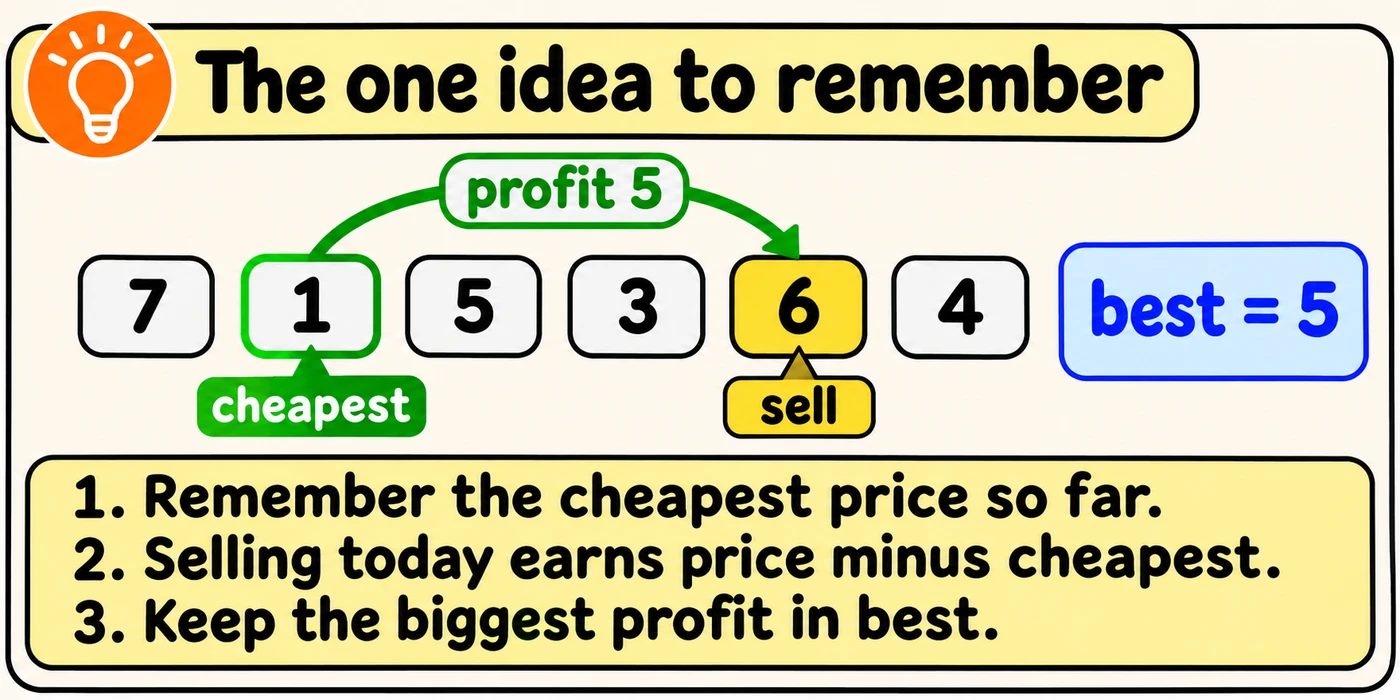
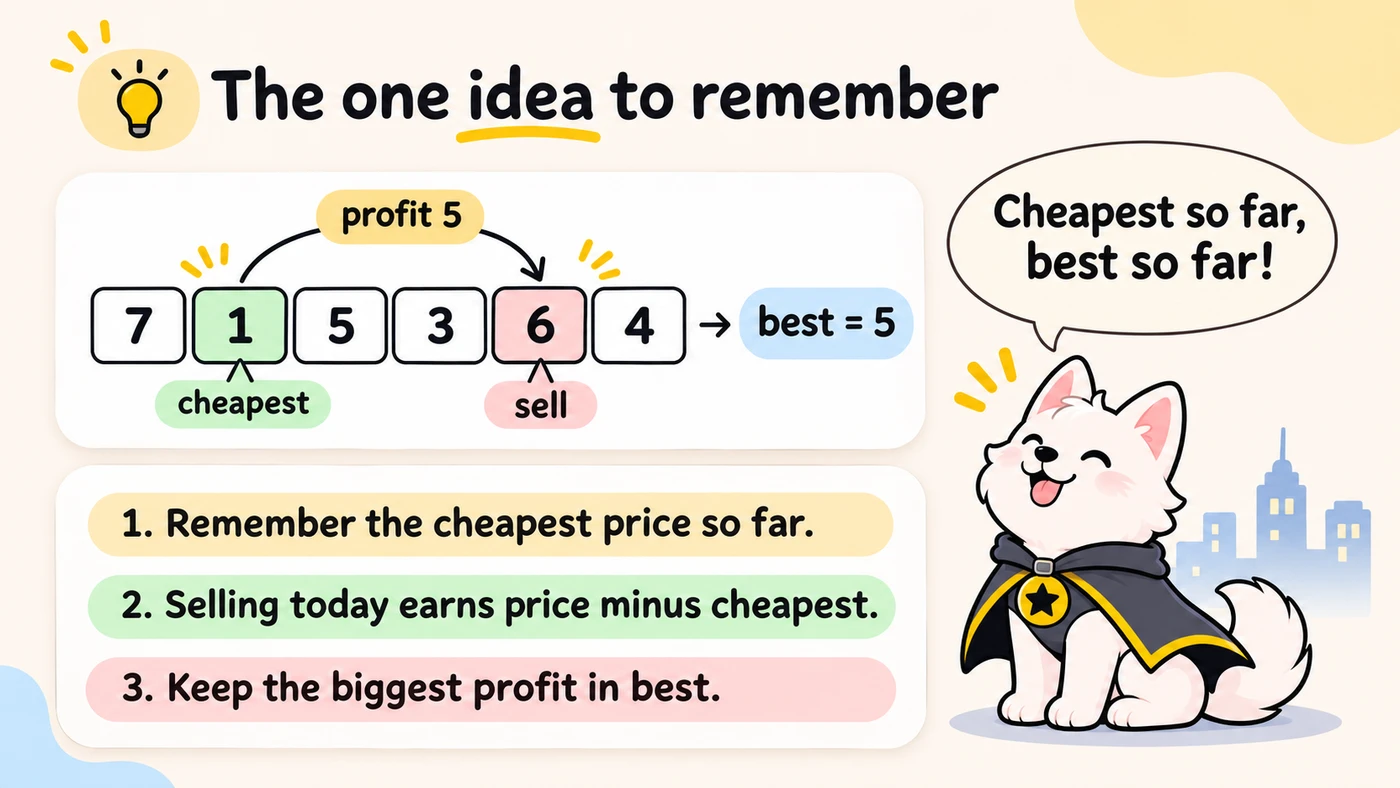
Sliding Window problem 1: pictures in the new pastel style with the superhero pup
Claude-Session: https://claude.ai/code/session_01C929SSvb38XrBSVCbuNvTc

diff --git a/sliding_window.html b/sliding_window.html
@@ -69,8 +69,8 @@ td{padding:10px 12px;border:1px solid var(--border)}
 .scene-img{width:100%;border-radius:10px;border:1px solid var(--border);margin-bottom:16px;cursor:pointer;transition:transform .2s}
 .scene-img:hover{transform:scale(1.02)}
 </style>
-<link rel="stylesheet" href="legacy-colors.css?v=20261119a">
-<link rel="stylesheet" href="site.css?v=20261119a">
+<link rel="stylesheet" href="legacy-colors.css?v=20261119b">
+<link rel="stylesheet" href="site.css?v=20261119b">
 </head>
 <body>
 <header class="ms-topbar"><div class="ms-inner"><a class="ms-home" href="index.html" aria-label="Home"><svg viewBox="0 0 24 24" fill="none" stroke="currentColor" stroke-width="2" stroke-linecap="round" stroke-linejoin="round"><path d="M3 10.5 12 3l9 7.5"/><path d="M5 9.5V21h14V9.5"/><path d="M10 21v-6h4v6"/></svg><span>Memory Systems</span></a><nav class="ms-links"><a href="shankar_dada_trees.html">Trees</a><a href="graphs.html">Graphs</a><a href="dp_workshop.html">DP</a><a href="arrays.html">Arrays</a><a href="two_pointers.html">Two Pointers</a><a href="sliding_window.html" class="on">Sliding Window</a><a href="stack.html">Stack</a><a href="binary_search.html">Binary Search</a><a href="linked_list.html">Linked List</a><a href="heap.html">Heap</a><a href="tries.html">Tries</a></nav></div></header>
@@ -91,14 +91,14 @@ td{padding:10px 12px;border:1px solid var(--border)}
 <section class="lsn-part lsn-easy">
 <span class="lsn-tag">Part 1 of 4</span>
 <h4>What are we trying to find?</h4>
-<img class="lsn-pic" src="sliding_window/images/panels/p121_buy_sell_stock_question.webp" alt="The prices are 7, 1, 5, 3, 6 and 4. We buy at 1 on day 1 and sell at 6 on day 4. The profit is 6 minus 1, which is 5." width="1400" height="700" loading="lazy">
+<img class="lsn-pic" src="sliding_window/images/panels/p121_buy_sell_stock_question.webp" alt="The prices are 7, 1, 5, 3, 6 and 4. We buy at 1 on day 1 and sell at 6 on day 4. The profit is 6 minus 1, which is 5." width="1400" height="788" loading="lazy">
 <p>We must buy before we sell. If no later selling price gives us a profit, we return 0.</p>
 </section>
 
 <section class="lsn-part">
 <span class="lsn-tag">Part 2 of 4</span>
 <h4>What do we track?</h4>
-<img class="lsn-pic" src="sliding_window/images/panels/p121_buy_sell_stock_scan.webp" alt="Each day, we track the cheapest price and the best profit. On day 4, the price is 6 and the cheapest price is 1. The profit is 5, so it becomes the new best." width="1400" height="715" loading="lazy">
+<img class="lsn-pic" src="sliding_window/images/panels/p121_buy_sell_stock_scan.webp" alt="Each day, we track the cheapest price and the best profit. On day 4, the price is 6 and the cheapest price is 1. The profit is 5, so it becomes the new best." width="1400" height="788" loading="lazy">
 <p>We walk through the prices once. We create the variable <code>cheapest</code> to keep track of the lowest price seen so far. This is the best price we could have bought at before selling today. So today’s profit is <code>price - cheapest</code>.</p>
 
 </section>
@@ -122,7 +122,7 @@ td{padding:10px 12px;border:1px solid var(--border)}
 
 <p>Tap Build it to see how I would write and explain the solution in an interview.</p>
 <div class="code-text" data-src="def maxProfit(prices):&#10;    cheapest = prices[0]&#10;    best = 0&#10;    for price in prices:&#10;        # a cheaper day to buy&#10;        if price &lt; cheapest:&#10;            cheapest = price&#10;        profit = price - cheapest&#10;        best = max(best, profit)&#10;    return best&#10;"><div class="code-label"><span class="dots"><i></i><i></i><i></i></span>Python code<button class="step-btn" type="button">Build it &#9654;</button></div><div class="code-body"><div class="code-inner"><div class="ln" data-l="1" style="padding-left:calc(10px + 2ch);text-indent:-2ch"><span class="k-kw">def</span> <span class="k-def">maxProfit</span>(<wbr>prices):</div><div class="ln" data-l="2" style="padding-left:calc(10px + 4ch);text-indent:-4ch">  cheapest = prices[<span class="k-num">0</span>]</div><div class="ln" data-l="3" style="padding-left:calc(10px + 4ch);text-indent:-4ch">  best = <span class="k-num">0</span></div><div class="ln" data-l="4" style="padding-left:calc(10px + 4ch);text-indent:-4ch">  <span class="k-kw">for</span> price <span class="k-kw">in</span> prices:</div><div class="ln" data-l="5" style="padding-left:calc(10px + 6ch);text-indent:-6ch">    <span class="k-com"># a cheaper day to buy</span></div><div class="ln" data-l="6" style="padding-left:calc(10px + 6ch);text-indent:-6ch">    <span class="k-kw">if</span> price &lt; cheapest:</div><div class="ln" data-l="7" style="padding-left:calc(10px + 8ch);text-indent:-8ch">      cheapest = price</div><div class="ln" data-l="8" style="padding-left:calc(10px + 6ch);text-indent:-6ch">    profit = price - cheapest</div><div class="ln" data-l="9" style="padding-left:calc(10px + 6ch);text-indent:-6ch">    best = <span class="k-bi">max</span>(<wbr>best, profit)</div><div class="ln" data-l="10" style="padding-left:calc(10px + 4ch);text-indent:-4ch">  <span class="k-kw">return</span> best</div></div></div><script type="application/json" class="steps">[{"lines": "1", "say": "I'll scan the prices once from left to right because I must buy before I sell. For each selling price, I only need the cheapest earlier price. Then I can find the profit and remember the biggest one."}, {"lines": "2", "say": "I'll create the variable `cheapest` to keep track of the lowest price seen so far. I need it to choose the best earlier day to buy. It starts at `prices[0]` because the first price is the only price seen at the start."}, {"lines": "3", "say": "I'll create the variable `best` to keep track of the biggest profit seen so far. It starts at 0 because I can choose not to trade, so the profit should never be less than 0."}, {"lines": "4", "say": "I'll go through every `price` from left to right. This order matters because the variable `cheapest` must come from the current day or an earlier day."}, {"lines": "5-7", "say": "If `price` is less than `cheapest`, I found a better price to buy at, so I'll set `cheapest` to `price`. For example, when the price is 1, the variable `cheapest` changes from 7 to 1."}, {"lines": "8", "say": "I'll create the variable `profit` to keep track of the profit from selling at the current `price`. I subtract `cheapest` because that is the lowest buying price seen before or on this day."}, {"lines": "9", "say": "I'll compare `profit` with `best`. If the current profit is bigger, the variable `best` takes that value. For example, when the price is 6 and `cheapest` is 1, the profit is 5, so `best` becomes 5."}, {"lines": "10", "say": "After I check every price, I'll return `best` because it holds the biggest profit I could make. For `[7, 1, 5, 3, 6, 4]`, it returns 5."}, {"lines": "", "say": "The time cost is O(n) because I visit each price once. The space cost is O(1) because I keep only a few variables, no matter how many prices there are."}]</script></div>
-<img class="lsn-pic" src="sliding_window/images/panels/p121_buy_sell_stock_key.webp" alt="The one idea to remember. Remember the cheapest price so far. Selling today earns price minus cheapest. Keep the biggest profit in best." width="1400" height="700" loading="lazy">
+<img class="lsn-pic" src="sliding_window/images/panels/p121_buy_sell_stock_key.webp" alt="The one idea to remember. Remember the cheapest price so far. Selling today earns price minus cheapest. Keep the biggest profit in best." width="1400" height="788" loading="lazy">
 </section>
 
 <section class="lsn-part">
@@ -580,9 +580,9 @@ left += 1"><textarea rows="5" spellcheck="false" autocapitalize="off" autocomple
 </div></div>
 
 </div>
-<script src="site.js?v=20261119a" defer></script>
-<script src="code-steps.js?v=20261119a" defer></script>
-<script src="codekeys.js?v=20261119a" defer></script>
-<script src="practice.js?v=20261119a" defer></script>
+<script src="site.js?v=20261119b" defer></script>
+<script src="code-steps.js?v=20261119b" defer></script>
+<script src="codekeys.js?v=20261119b" defer></script>
+<script src="practice.js?v=20261119b" defer></script>
 </body>
 </html>

diff --git a/habits.html b/habits.html
@@ -20,8 +20,8 @@ body{margin:0}
 .hb-list ol{margin:8px 0 0;padding-left:22px}
 .hb-list li{margin:8px 0;line-height:1.5}
 </style>
-<link rel="stylesheet" href="legacy-colors.css?v=20261119a">
-<link rel="stylesheet" href="site.css?v=20261119a">
+<link rel="stylesheet" href="legacy-colors.css?v=20261119b">
+<link rel="stylesheet" href="site.css?v=20261119b">
 </head>
 <body>
 <header class="ms-topbar"><div class="ms-inner"><a class="ms-home" href="index.html" aria-label="Home"><svg viewBox="0 0 24 24" fill="none" stroke="currentColor" stroke-width="2" stroke-linecap="round" stroke-linejoin="round"><path d="M3 10.5 12 3l9 7.5"/><path d="M5 9.5V21h14V9.5"/><path d="M10 21v-6h4v6"/></svg><span>Memory Systems</span></a><nav class="ms-links"><a href="shankar_dada_trees.html">Trees</a><a href="graphs.html">Graphs</a><a href="dp_workshop.html">DP</a><a href="arrays.html">Arrays</a><a href="two_pointers.html">Two Pointers</a><a href="sliding_window.html">Sliding Window</a><a href="stack.html">Stack</a><a href="binary_search.html">Binary Search</a><a href="linked_list.html">Linked List</a><a href="heap.html">Heap</a><a href="tries.html">Tries</a></nav></div></header>
@@ -77,6 +77,6 @@ body{margin:0}
 <pre class="snip"><span class="snl" style="padding-left:2ch;text-indent:-2ch"><span class="k-com"># list</span></span><span class="snl" style="padding-left:2ch;text-indent:-2ch">nums.append(<wbr>x)  <span class="k-com"># add at end</span></span><span class="snl" style="padding-left:2ch;text-indent:-2ch">nums.pop(<wbr>)      <span class="k-com"># remove last</span></span><span class="snl" style="padding-left:2ch;text-indent:-2ch">nums.pop(<wbr>i)     <span class="k-com"># remove at i</span></span><span class="snl" style="padding-left:2ch;text-indent:-2ch">nums[-<span class="k-num">1</span>]        <span class="k-com"># last item</span></span></pre><pre class="snip"><span class="snl" style="padding-left:2ch;text-indent:-2ch"><span class="k-com"># dict</span></span><span class="snl" style="padding-left:2ch;text-indent:-2ch">count[key] = <span class="k-num">1</span>  <span class="k-com"># add or change</span></span><span class="snl" style="padding-left:2ch;text-indent:-2ch">count.pop(<wbr>key)  <span class="k-com"># remove key</span></span><span class="snl" style="padding-left:2ch;text-indent:-2ch">key <span class="k-kw">in</span> count    <span class="k-com"># check</span></span><span class="snl" style="padding-left:2ch;text-indent:-2ch">count.get(<wbr>key, <span class="k-num">0</span>)  <span class="k-com"># 0 if none</span></span></pre><pre class="snip"><span class="snl" style="padding-left:2ch;text-indent:-2ch"><span class="k-com"># set</span></span><span class="snl" style="padding-left:2ch;text-indent:-2ch">seen.add(<wbr>x)     <span class="k-com"># add</span></span><span class="snl" style="padding-left:2ch;text-indent:-2ch">seen.remove(<wbr>x)  <span class="k-com"># remove x</span></span><span class="snl" style="padding-left:2ch;text-indent:-2ch">x <span class="k-kw">in</span> seen       <span class="k-com"># check</span></span></pre><pre class="snip"><span class="snl" style="padding-left:2ch;text-indent:-2ch"><span class="k-com"># deque</span></span><span class="snl" style="padding-left:2ch;text-indent:-2ch"><span class="k-kw">from</span> collections <span class="k-kw">import</span> deque</span><span class="snl" style="padding-left:2ch;text-indent:-2ch">queue.append(<wbr>x)  <span class="k-com"># add at back</span></span><span class="snl" style="padding-left:2ch;text-indent:-2ch">queue.popleft(<wbr>)  <span class="k-com"># remove front</span></span><span class="snl" style="padding-left:2ch;text-indent:-2ch">queue[<span class="k-num">0</span>]         <span class="k-com"># front item</span></span></pre><pre class="snip"><span class="snl" style="padding-left:2ch;text-indent:-2ch"><span class="k-com"># heap, smallest first</span></span><span class="snl" style="padding-left:2ch;text-indent:-2ch"><span class="k-kw">import</span> heapq</span><span class="snl" style="padding-left:2ch;text-indent:-2ch">heapq.heappush(<wbr>heap, x)  <span class="k-com"># add</span></span><span class="snl" style="padding-left:2ch;text-indent:-2ch">heapq.heappop(<wbr>heap)  <span class="k-com"># pop min</span></span><span class="snl" style="padding-left:2ch;text-indent:-2ch">heap[<span class="k-num">0</span>]  <span class="k-com"># smallest item</span></span></pre>
 </section>
 </main>
-<script src="site.js?v=20261119a" defer></script>
+<script src="site.js?v=20261119b" defer></script>
 </body>
 </html>

diff --git a/tries.html b/tries.html
@@ -69,8 +69,8 @@ td{padding:10px 12px;border:1px solid var(--border)}
 .scene-img{width:100%;border-radius:10px;border:1px solid var(--border);margin-bottom:16px;cursor:pointer;transition:transform .2s}
 .scene-img:hover{transform:scale(1.02)}
 </style>
-<link rel="stylesheet" href="legacy-colors.css?v=20261119a">
-<link rel="stylesheet" href="site.css?v=20261119a">
+<link rel="stylesheet" href="legacy-colors.css?v=20261119b">
+<link rel="stylesheet" href="site.css?v=20261119b">
 </head>
 <body>
 <header class="ms-topbar"><div class="ms-inner"><a class="ms-home" href="index.html" aria-label="Home"><svg viewBox="0 0 24 24" fill="none" stroke="currentColor" stroke-width="2" stroke-linecap="round" stroke-linejoin="round"><path d="M3 10.5 12 3l9 7.5"/><path d="M5 9.5V21h14V9.5"/><path d="M10 21v-6h4v6"/></svg><span>Memory Systems</span></a><nav class="ms-links"><a href="shankar_dada_trees.html">Trees</a><a href="graphs.html">Graphs</a><a href="dp_workshop.html">DP</a><a href="arrays.html">Arrays</a><a href="two_pointers.html">Two Pointers</a><a href="sliding_window.html">Sliding Window</a><a href="stack.html">Stack</a><a href="binary_search.html">Binary Search</a><a href="linked_list.html">Linked List</a><a href="heap.html">Heap</a><a href="tries.html" class="on">Tries</a></nav></div></header>
@@ -467,11 +467,11 @@ board[r][c] = letter"><textarea rows="6" spellcheck="false" autocapitalize="off"
 </div></div>
 
 </div>
-<script src="site.js?v=20261119a" defer></script>
-<script src="code-steps.js?v=20261119a" defer></script>
-<script src="codekeys.js?v=20261119a" defer></script>
-<script src="lesson208.js?v=20261119a" defer></script>
-<script src="lesson212.js?v=20261119a" defer></script>
-<script src="lesson.js?v=20261119a" defer></script>
+<script src="site.js?v=20261119b" defer></script>
+<script src="code-steps.js?v=20261119b" defer></script>
+<script src="codekeys.js?v=20261119b" defer></script>
+<script src="lesson208.js?v=20261119b" defer></script>
+<script src="lesson212.js?v=20261119b" defer></script>
+<script src="lesson.js?v=20261119b" defer></script>
 </body>
 </html>

diff --git a/arrays.html b/arrays.html
@@ -69,8 +69,8 @@ td{padding:10px 12px;border:1px solid var(--border)}
 .scene-img{width:100%;border-radius:10px;border:1px solid var(--border);margin-bottom:16px;cursor:pointer;transition:transform .2s}
 .scene-img:hover{transform:scale(1.02)}
 </style>
-<link rel="stylesheet" href="legacy-colors.css?v=20261119a">
-<link rel="stylesheet" href="site.css?v=20261119a">
+<link rel="stylesheet" href="legacy-colors.css?v=20261119b">
+<link rel="stylesheet" href="site.css?v=20261119b">
 </head>
 <body>
 <header class="ms-topbar"><div class="ms-inner"><a class="ms-home" href="index.html" aria-label="Home"><svg viewBox="0 0 24 24" fill="none" stroke="currentColor" stroke-width="2" stroke-linecap="round" stroke-linejoin="round"><path d="M3 10.5 12 3l9 7.5"/><path d="M5 9.5V21h14V9.5"/><path d="M10 21v-6h4v6"/></svg><span>Memory Systems</span></a><nav class="ms-links"><a href="shankar_dada_trees.html">Trees</a><a href="graphs.html">Graphs</a><a href="dp_workshop.html">DP</a><a href="arrays.html" class="on">Arrays</a><a href="two_pointers.html">Two Pointers</a><a href="sliding_window.html">Sliding Window</a><a href="stack.html">Stack</a><a href="binary_search.html">Binary Search</a><a href="linked_list.html">Linked List</a><a href="heap.html">Heap</a><a href="tries.html">Tries</a></nav></div></header>
@@ -683,9 +683,9 @@ longest = max(longest, length)"><textarea rows="4" spellcheck="false" autocapita
 </div></div>
 
 </div>
-<script src="site.js?v=20261119a" defer></script>
-<script src="code-steps.js?v=20261119a" defer></script>
-<script src="codekeys.js?v=20261119a" defer></script>
-<script src="practice.js?v=20261119a" defer></script>
+<script src="site.js?v=20261119b" defer></script>
+<script src="code-steps.js?v=20261119b" defer></script>
+<script src="codekeys.js?v=20261119b" defer></script>
+<script src="practice.js?v=20261119b" defer></script>
 </body>
 </html>

diff --git a/heap.html b/heap.html
@@ -69,8 +69,8 @@ td{padding:10px 12px;border:1px solid var(--border)}
 .scene-img{width:100%;border-radius:10px;border:1px solid var(--border);margin-bottom:16px;cursor:pointer;transition:transform .2s}
 .scene-img:hover{transform:scale(1.02)}
 </style>
-<link rel="stylesheet" href="legacy-colors.css?v=20261119a">
-<link rel="stylesheet" href="site.css?v=20261119a">
+<link rel="stylesheet" href="legacy-colors.css?v=20261119b">
+<link rel="stylesheet" href="site.css?v=20261119b">
 </head>
 <body>
 <header class="ms-topbar"><div class="ms-inner"><a class="ms-home" href="index.html" aria-label="Home"><svg viewBox="0 0 24 24" fill="none" stroke="currentColor" stroke-width="2" stroke-linecap="round" stroke-linejoin="round"><path d="M3 10.5 12 3l9 7.5"/><path d="M5 9.5V21h14V9.5"/><path d="M10 21v-6h4v6"/></svg><span>Memory Systems</span></a><nav class="ms-links"><a href="shankar_dada_trees.html">Trees</a><a href="graphs.html">Graphs</a><a href="dp_workshop.html">DP</a><a href="arrays.html">Arrays</a><a href="two_pointers.html">Two Pointers</a><a href="sliding_window.html">Sliding Window</a><a href="stack.html">Stack</a><a href="binary_search.html">Binary Search</a><a href="linked_list.html">Linked List</a><a href="heap.html" class="on">Heap</a><a href="tries.html">Tries</a></nav></div></header>
@@ -626,9 +626,9 @@ return total / 2"><textarea rows="6" spellcheck="false" autocapitalize="off" aut
 </div></div>
 
 </div>
-<script src="site.js?v=20261119a" defer></script>
-<script src="code-steps.js?v=20261119a" defer></script>
-<script src="codekeys.js?v=20261119a" defer></script>
-<script src="practice.js?v=20261119a" defer></script>
+<script src="site.js?v=20261119b" defer></script>
+<script src="code-steps.js?v=20261119b" defer></script>
+<script src="codekeys.js?v=20261119b" defer></script>
+<script src="practice.js?v=20261119b" defer></script>
 </body>
 </html>

diff --git a/binary_search.html b/binary_search.html
@@ -69,8 +69,8 @@ td{padding:10px 12px;border:1px solid var(--border)}
 .scene-img{width:100%;border-radius:10px;border:1px solid var(--border);margin-bottom:16px;cursor:pointer;transition:transform .2s}
 .scene-img:hover{transform:scale(1.02)}
 </style>
-<link rel="stylesheet" href="legacy-colors.css?v=20261119a">
-<link rel="stylesheet" href="site.css?v=20261119a">
+<link rel="stylesheet" href="legacy-colors.css?v=20261119b">
+<link rel="stylesheet" href="site.css?v=20261119b">
 </head>
 <body>
 <header class="ms-topbar"><div class="ms-inner"><a class="ms-home" href="index.html" aria-label="Home"><svg viewBox="0 0 24 24" fill="none" stroke="currentColor" stroke-width="2" stroke-linecap="round" stroke-linejoin="round"><path d="M3 10.5 12 3l9 7.5"/><path d="M5 9.5V21h14V9.5"/><path d="M10 21v-6h4v6"/></svg><span>Memory Systems</span></a><nav class="ms-links"><a href="shankar_dada_trees.html">Trees</a><a href="graphs.html">Graphs</a><a href="dp_workshop.html">DP</a><a href="arrays.html">Arrays</a><a href="two_pointers.html">Two Pointers</a><a href="sliding_window.html">Sliding Window</a><a href="stack.html">Stack</a><a href="binary_search.html" class="on">Binary Search</a><a href="linked_list.html">Linked List</a><a href="heap.html">Heap</a><a href="tries.html">Tries</a></nav></div></header>
@@ -610,9 +610,9 @@ else:
 </div></div>
 
 </div>
-<script src="site.js?v=20261119a" defer></script>
-<script src="code-steps.js?v=20261119a" defer></script>
-<script src="codekeys.js?v=20261119a" defer></script>
-<script src="practice.js?v=20261119a" defer></script>
+<script src="site.js?v=20261119b" defer></script>
+<script src="code-steps.js?v=20261119b" defer></script>
+<script src="codekeys.js?v=20261119b" defer></script>
+<script src="practice.js?v=20261119b" defer></script>
 </body>
 </html>

diff --git a/graphs.html b/graphs.html
@@ -69,8 +69,8 @@ td{padding:10px 12px;border:1px solid var(--border)}
 .scene-img{width:100%;border-radius:10px;border:1px solid var(--border);margin-bottom:16px;cursor:pointer;transition:transform .2s}
 .scene-img:hover{transform:scale(1.02)}
 </style>
-<link rel="stylesheet" href="legacy-colors.css?v=20261119a">
-<link rel="stylesheet" href="site.css?v=20261119a">
+<link rel="stylesheet" href="legacy-colors.css?v=20261119b">
+<link rel="stylesheet" href="site.css?v=20261119b">
 </head>
 <body>
 <header class="ms-topbar"><div class="ms-inner"><a class="ms-home" href="index.html" aria-label="Home"><svg viewBox="0 0 24 24" fill="none" stroke="currentColor" stroke-width="2" stroke-linecap="round" stroke-linejoin="round"><path d="M3 10.5 12 3l9 7.5"/><path d="M5 9.5V21h14V9.5"/><path d="M10 21v-6h4v6"/></svg><span>Memory Systems</span></a><nav class="ms-links"><a href="shankar_dada_trees.html">Trees</a><a href="graphs.html" class="on">Graphs</a><a href="dp_workshop.html">DP</a><a href="arrays.html">Arrays</a><a href="two_pointers.html">Two Pointers</a><a href="sliding_window.html">Sliding Window</a><a href="stack.html">Stack</a><a href="binary_search.html">Binary Search</a><a href="linked_list.html">Linked List</a><a href="heap.html">Heap</a><a href="tries.html">Tries</a></nav></div></header>
@@ -1134,6 +1134,6 @@ document.querySelectorAll('.nav button').forEach(b=>b.classList.remove('on'));
 event.target.classList.add('on');
 }
 </script>
-<script src="site.js?v=20261119a" defer></script>
+<script src="site.js?v=20261119b" defer></script>
 </body>
 </html>

diff --git a/index.html b/index.html
@@ -37,8 +37,8 @@ a.card:hover{transform:translateY(-4px);border-color:var(--gold2);box-shadow:0 8
 @media(max-width:720px){.grid{grid-template-columns:1fr}}
 @media(min-width:721px) and (max-width:960px){.grid{grid-template-columns:1fr 1fr}}
 </style>
-<link rel="stylesheet" href="legacy-colors.css?v=20261119a">
-<link rel="stylesheet" href="site.css?v=20261119a">
+<link rel="stylesheet" href="legacy-colors.css?v=20261119b">
+<link rel="stylesheet" href="site.css?v=20261119b">
 </head>
 <body>
 <header class="ms-topbar"><div class="ms-inner"><a class="ms-home" href="index.html" aria-label="Home"><svg viewBox="0 0 24 24" fill="none" stroke="currentColor" stroke-width="2" stroke-linecap="round" stroke-linejoin="round"><path d="M3 10.5 12 3l9 7.5"/><path d="M5 9.5V21h14V9.5"/><path d="M10 21v-6h4v6"/></svg><span>Memory Systems</span></a><nav class="ms-links"><a href="shankar_dada_trees.html">Trees</a><a href="graphs.html">Graphs</a><a href="dp_workshop.html">DP</a><a href="arrays.html">Arrays</a><a href="two_pointers.html">Two Pointers</a><a href="sliding_window.html">Sliding Window</a><a href="stack.html">Stack</a><a href="binary_search.html">Binary Search</a><a href="linked_list.html">Linked List</a><a href="heap.html">Heap</a><a href="tries.html">Tries</a></nav></div></header>
@@ -111,6 +111,6 @@ a.card:hover{transform:translateY(-4px);border-color:var(--gold2);box-shadow:0 8
 
 <div class="footer">Built by Nambi</div>
 
-<script src="site.js?v=20261119a" defer></script>
+<script src="site.js?v=20261119b" defer></script>
 </body>
 </html>

diff --git a/lis_dp.html b/lis_dp.html
@@ -236,8 +236,8 @@ a.wshome{color:inherit;text-decoration:none;display:block}
 a.wshome:hover h1{opacity:.82}
 .wsback{display:block;font-size:.62em;letter-spacing:.16em;text-transform:uppercase;font-weight:800;opacity:.75;margin-bottom:6px}
 </style>
-<link rel="stylesheet" href="legacy-colors.css?v=20261119a">
-<link rel="stylesheet" href="site.css?v=20261119a">
+<link rel="stylesheet" href="legacy-colors.css?v=20261119b">
+<link rel="stylesheet" href="site.css?v=20261119b">
 </head>
 <body>
 <header class="ms-topbar"><div class="ms-inner"><a class="ms-home" href="index.html" aria-label="Home"><svg viewBox="0 0 24 24" fill="none" stroke="currentColor" stroke-width="2" stroke-linecap="round" stroke-linejoin="round"><path d="M3 10.5 12 3l9 7.5"/><path d="M5 9.5V21h14V9.5"/><path d="M10 21v-6h4v6"/></svg><span>Memory Systems</span></a><nav class="ms-links"><a href="shankar_dada_trees.html">Trees</a><a href="graphs.html">Graphs</a><a href="dp_workshop.html" class="on">DP</a><a href="arrays.html">Arrays</a><a href="two_pointers.html">Two Pointers</a><a href="sliding_window.html">Sliding Window</a><a href="stack.html">Stack</a><a href="binary_search.html">Binary Search</a><a href="linked_list.html">Linked List</a><a href="heap.html">Heap</a><a href="tries.html">Tries</a></nav></div></header>
@@ -1230,6 +1230,6 @@ Outside the function, and not optional. The chain ends somewhere and nobody said
 
 </div>
 
-<script src="site.js?v=20261119a" defer></script>
+<script src="site.js?v=20261119b" defer></script>
 </body>
 </html>

diff --git a/table_2d_dp.html b/table_2d_dp.html
@@ -69,8 +69,8 @@ a.wshome:hover h1{opacity:.82}
 .recallcard .rlbl{font-size:.62em;letter-spacing:.18em;font-weight:800;color:var(--gold2);text-transform:uppercase}
 .recallcard p{margin:6px 0 10px;font-size:.9em;color:var(--muted)}
 </style>
-<link rel="stylesheet" href="legacy-colors.css?v=20261119a">
-<link rel="stylesheet" href="site.css?v=20261119a">
+<link rel="stylesheet" href="legacy-colors.css?v=20261119b">
+<link rel="stylesheet" href="site.css?v=20261119b">
 </head>
 <body>
 <header class="ms-topbar"><div class="ms-inner"><a class="ms-home" href="index.html" aria-label="Home"><svg viewBox="0 0 24 24" fill="none" stroke="currentColor" stroke-width="2" stroke-linecap="round" stroke-linejoin="round"><path d="M3 10.5 12 3l9 7.5"/><path d="M5 9.5V21h14V9.5"/><path d="M10 21v-6h4v6"/></svg><span>Memory Systems</span></a><nav class="ms-links"><a href="shankar_dada_trees.html">Trees</a><a href="graphs.html">Graphs</a><a href="dp_workshop.html" class="on">DP</a><a href="arrays.html">Arrays</a><a href="two_pointers.html">Two Pointers</a><a href="sliding_window.html">Sliding Window</a><a href="stack.html">Stack</a><a href="binary_search.html">Binary Search</a><a href="linked_list.html">Linked List</a><a href="heap.html">Heap</a><a href="tries.html">Tries</a></nav></div></header>
@@ -4095,6 +4095,6 @@ Given a <code>text</code> and a <code>pattern</code>, decide whether the pattern
 
 </div>
 
-<script src="site.js?v=20261119a" defer></script>
+<script src="site.js?v=20261119b" defer></script>
 </body>
 </html>

diff --git a/palindrome_dp.html b/palindrome_dp.html
@@ -78,8 +78,8 @@ a.wshome:hover h1{opacity:.82}
 .recallcard .rlbl{font-size:.62em;letter-spacing:.18em;font-weight:800;color:var(--gold2);text-transform:uppercase}
 .recallcard p{margin:6px 0 10px;font-size:.9em;color:var(--muted)}
 </style>
-<link rel="stylesheet" href="legacy-colors.css?v=20261119a">
-<link rel="stylesheet" href="site.css?v=20261119a">
+<link rel="stylesheet" href="legacy-colors.css?v=20261119b">
+<link rel="stylesheet" href="site.css?v=20261119b">
 </head>
 <body>
 <header class="ms-topbar"><div class="ms-inner"><a class="ms-home" href="index.html" aria-label="Home"><svg viewBox="0 0 24 24" fill="none" stroke="currentColor" stroke-width="2" stroke-linecap="round" stroke-linejoin="round"><path d="M3 10.5 12 3l9 7.5"/><path d="M5 9.5V21h14V9.5"/><path d="M10 21v-6h4v6"/></svg><span>Memory Systems</span></a><nav class="ms-links"><a href="shankar_dada_trees.html">Trees</a><a href="graphs.html">Graphs</a><a href="dp_workshop.html" class="on">DP</a><a href="arrays.html">Arrays</a><a href="two_pointers.html">Two Pointers</a><a href="sliding_window.html">Sliding Window</a><a href="stack.html">Stack</a><a href="binary_search.html">Binary Search</a><a href="linked_list.html">Linked List</a><a href="heap.html">Heap</a><a href="tries.html">Tries</a></nav></div></header>
@@ -582,6 +582,6 @@ Same <code>is_pal[left][right]</code> table, same recursion, same base cases, sa
 
 </div>
 
-<script src="site.js?v=20261119a" defer></script>
+<script src="site.js?v=20261119b" defer></script>
 </body>
 </html>

diff --git a/linked_list.html b/linked_list.html
@@ -69,8 +69,8 @@ td{padding:10px 12px;border:1px solid var(--border)}
 .scene-img{width:100%;border-radius:10px;border:1px solid var(--border);margin-bottom:16px;cursor:pointer;transition:transform .2s}
 .scene-img:hover{transform:scale(1.02)}
 </style>
-<link rel="stylesheet" href="legacy-colors.css?v=20261119a">
-<link rel="stylesheet" href="site.css?v=20261119a">
+<link rel="stylesheet" href="legacy-colors.css?v=20261119b">
+<link rel="stylesheet" href="site.css?v=20261119b">
 </head>
 <body>
 <header class="ms-topbar"><div class="ms-inner"><a class="ms-home" href="index.html" aria-label="Home"><svg viewBox="0 0 24 24" fill="none" stroke="currentColor" stroke-width="2" stroke-linecap="round" stroke-linejoin="round"><path d="M3 10.5 12 3l9 7.5"/><path d="M5 9.5V21h14V9.5"/><path d="M10 21v-6h4v6"/></svg><span>Memory Systems</span></a><nav class="ms-links"><a href="shankar_dada_trees.html">Trees</a><a href="graphs.html">Graphs</a><a href="dp_workshop.html">DP</a><a href="arrays.html">Arrays</a><a href="two_pointers.html">Two Pointers</a><a href="sliding_window.html">Sliding Window</a><a href="stack.html">Stack</a><a href="binary_search.html">Binary Search</a><a href="linked_list.html" class="on">Linked List</a><a href="heap.html">Heap</a><a href="tries.html">Tries</a></nav></div></header>
@@ -150,6 +150,6 @@ td{padding:10px 12px;border:1px solid var(--border)}
 </div></div>
 
 </div>
-<script src="site.js?v=20261119a" defer></script>
+<script src="site.js?v=20261119b" defer></script>
 </body>
 </html>
